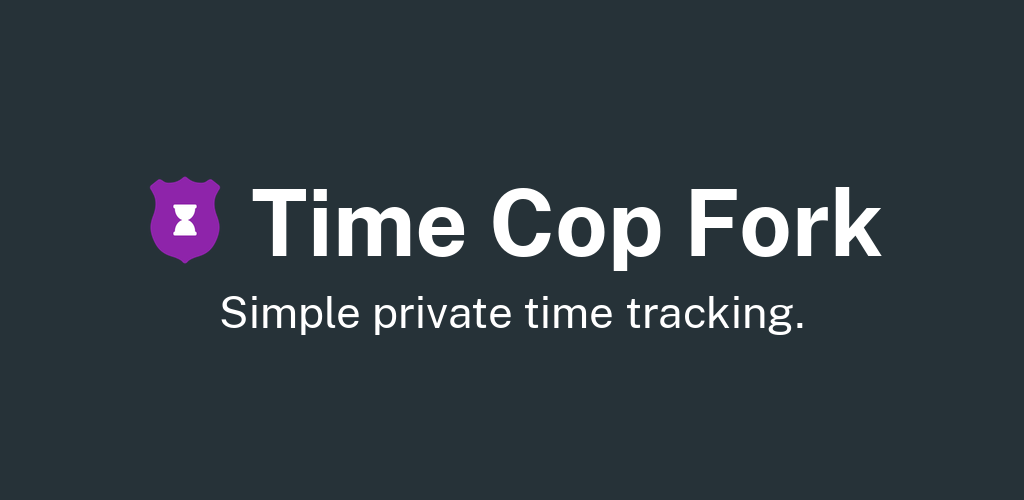
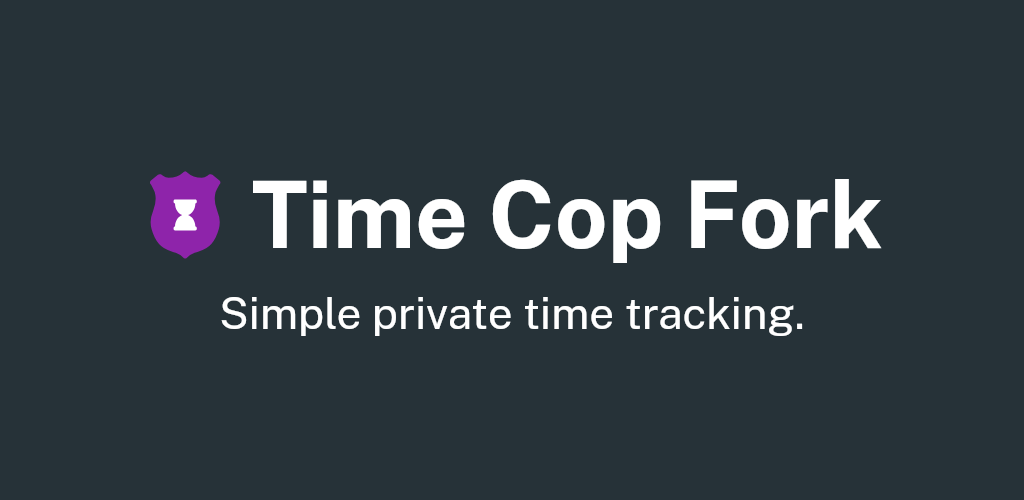
Store feature graphic in all 8 store languages
The screenshot test now also renders the 1024x500 feature graphic for
each language in fastlane/metadata/android/: the purple shield, the
language's store title from title.txt (long titles shrink to fit) and a
translated tagline, in Public Sans. Before, only en-US had one, so stores
showed the English banner for every language. German and Italian taglines
follow the original app's; the others are new translations.

Regenerate with: SCREENSHOTS=1 flutter test test/screenshots

Claude-Session: https://claude.ai/code/session_01GcyRMB3jCKwwVrxfext5ZV

diff --git a/test/screenshots/screenshots_test.dart b/test/screenshots/screenshots_test.dart
@@ -7,6 +7,7 @@ import 'dart:ui' as ui;
 
 import 'package:flutter/rendering.dart';
 import 'package:flutter/services.dart';
+import 'package:flutter_svg/flutter_svg.dart';
 import 'package:flutter_test/flutter_test.dart';
 import 'package:material_ui/material_ui.dart';
 import 'package:timecop/models/theme_type.dart';
@@ -20,7 +21,8 @@ import '../helpers/fakes.dart';
 import '../helpers/pump_app.dart';
 
 // Renders the store and README screenshots into
-// fastlane/metadata/android/en-US/images/phoneScreenshots/.
+// fastlane/metadata/android/en-US/images/phoneScreenshots/, and the store's
+// feature graphic for every language in fastlane/metadata/android/*/images/.
 //
 // Skipped in normal test runs. To update the screenshots, run
 //   SCREENSHOTS=1 flutter test test/screenshots
@@ -94,6 +96,109 @@ void main() {
   );
   shot('7-export', screen: (_) => const ExportScreen());
   shot('8-settings', screen: (_) => SettingsScreen());
+
+  // The 1024 × 500 banner at the top of the store page, per language. The
+  // title comes from the language's title.txt.
+  const taglines = <String, String>{
+    'en-US': 'Simple private time tracking.',
+    'cs': 'Jednoduché a soukromé měření času.',
+    'de': 'Einfache, private Zeiterfassung.',
+    'es-ES': 'Control del tiempo sencillo y privado.',
+    'hu': 'Egyszerű, privát időkövetés.',
+    'it-IT': 'Semplice monitoraggio del tempo privato.',
+    'nb-NO': 'Enkel og privat tidsregistrering.',
+    'tr': 'Basit ve gizli zaman takibi.',
+  };
+  for (final entry in taglines.entries) {
+    testWidgets('feature graphic ${entry.key}', skip: !enabled, (tester) async {
+      final dir = 'fastlane/metadata/android/${entry.key}';
+      final title = File('$dir/title.txt').readAsStringSync().trim();
+      await _saveFeatureGraphic(
+        tester,
+        title,
+        entry.value,
+        '$dir/images/featureGraphic.png',
+      );
+    });
+  }
+}
+
+Future<void> _saveFeatureGraphic(
+  WidgetTester tester,
+  String title,
+  String tagline,
+  String path,
+) async {
+  tester.view.physicalSize = const Size(1024, 500);
+  tester.view.devicePixelRatio = 1;
+  addTearDown(tester.view.reset);
+  const white = Color(0xFFFFFFFF);
+  await tester.pumpWidget(
+    RepaintBoundary(
+      key: appBoundaryKey,
+      child: Directionality(
+        textDirection: TextDirection.ltr,
+        child: ColoredBox(
+          color: const Color(0xFF263238),
+          child: Padding(
+            padding: const EdgeInsets.symmetric(horizontal: 64),
+            child: Column(
+              mainAxisAlignment: MainAxisAlignment.center,
+              children: [
+                // long titles (e.g. Spanish) shrink to fit
+                FittedBox(
+                  fit: BoxFit.scaleDown,
+                  child: Row(
+                    mainAxisSize: MainAxisSize.min,
+                    children: [
+                      SvgPicture.asset('icon.no-bg.color.svg', height: 88),
+                      const SizedBox(width: 22),
+                      Text(
+                        title,
+                        style: const TextStyle(
+                          fontFamily: 'PublicSans',
+                          fontWeight: FontWeight.w700,
+                          fontSize: 92,
+                          color: white,
+                        ),
+                      ),
+                    ],
+                  ),
+                ),
+                const SizedBox(height: 18),
+                FittedBox(
+                  fit: BoxFit.scaleDown,
+                  child: Text(
+                    tagline,
+                    style: const TextStyle(
+                      fontFamily: 'PublicSans',
+                      fontSize: 44,
+                      color: white,
+                    ),
+                  ),
+                ),
+              ],
+            ),
+          ),
+        ),
+      ),
+    ),
+  );
+  // the SVG loads asynchronously
+  for (var i = 0; i < 10; i++) {
+    await tester.runAsync(() => Future<void>.delayed(Duration.zero));
+    await tester.pump();
+  }
+  final boundary =
+      tester.renderObject(find.byKey(appBoundaryKey)) as RenderRepaintBoundary;
+  await tester.runAsync(() async {
+    final image = await boundary.toImage();
+    final png = await image.toByteData(format: ui.ImageByteFormat.png);
+    image.dispose();
+    final file = File(path);
+    await file.parent.create(recursive: true);
+    await file.writeAsBytes(png!.buffer.asUint8List());
+  });
 }
 
 /// Saves the whole app at the phone's resolution.

diff --git a/README.md b/README.md
@@ -104,7 +104,7 @@ flutter test --update-goldens --tags golden
 
 The images are generated on Linux with the latest stable Flutter, the same as CI. Text can be drawn slightly differently on other systems or Flutter versions, so there use `flutter test --exclude-tags golden` if the golden tests fail without a visible reason. When a golden test fails in CI, the run has a `golden-failures-…` artifact with the expected, actual and difference images.
 
-The store and README screenshots are rendered the same way, from made-up data relative to today, at 1080 × 2400. They are skipped in normal runs; to update them after a visible change, run the following and review the images:
+The store and README screenshots are rendered the same way, from made-up data relative to today, at 1080 × 2400, together with the store's feature graphic (the banner) for every language in `fastlane/metadata/android/`. They are skipped in normal runs; to update them after a visible change, run the following and review the images:
 
 ```bash
 SCREENSHOTS=1 flutter test test/screenshots

diff --git a/CHANGELOG.md b/CHANGELOG.md
@@ -21,6 +21,8 @@ and this project adheres to [Semantic Versioning](https://semver.org/spec/v2.0.0
   version code 1.
 * New store and README screenshots of the fork (light and dark), generated
   by a test so they can be updated with one command.
+* Store feature graphic ("Time Cop Fork" banner) in all 8 store languages,
+  rendered by the same test.
 
 ### Removed
 * The original app's screenshots (`screenshots/`), Google Play graphics
